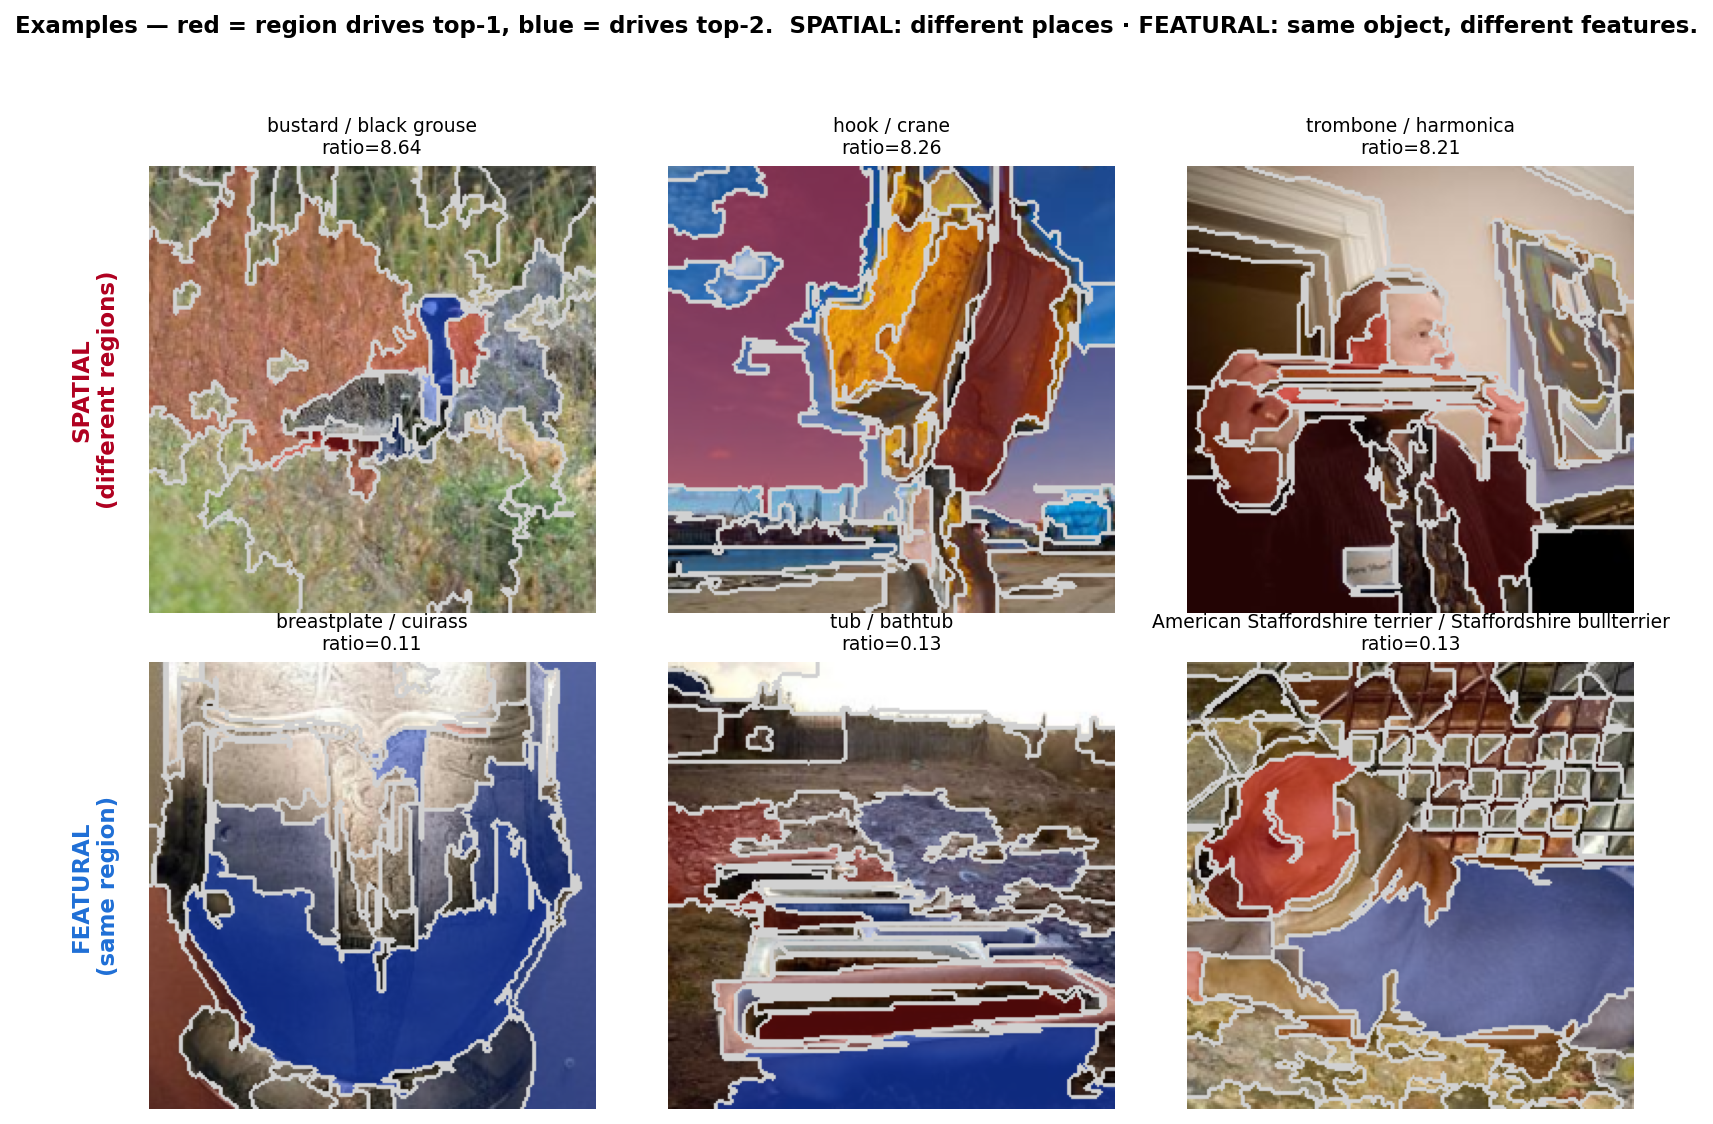
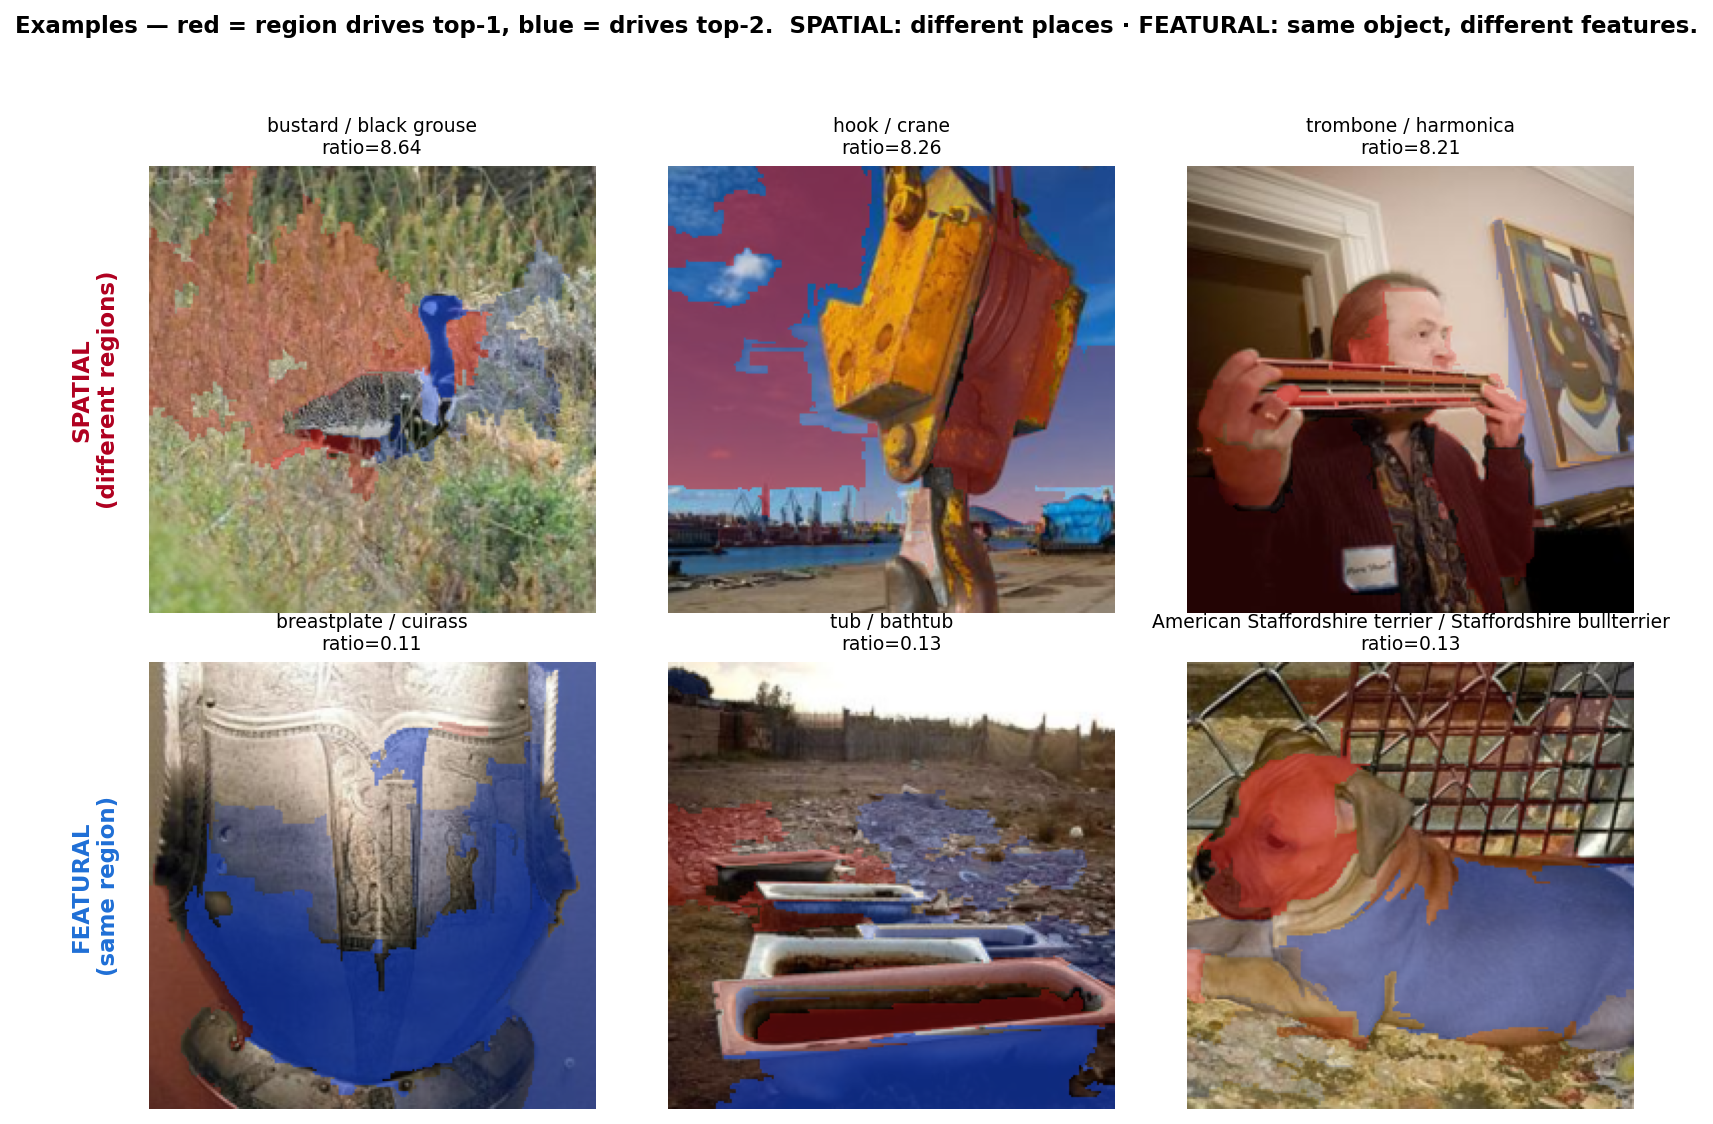
Remove segment borders from occlusion example overlays
Clean red/blue region highlights without superpixel edges.

diff --git a/infocube-main/occlusion_1k.py b/infocube-main/occlusion_1k.py
@@ -175,7 +175,7 @@ def overlay(i, y1, y2):
     im = (x.cpu()*_std+_mean).clamp(0,1).permute(1,2,0).numpy()
     sgn = (np.where(disc, np.sign(diff), 0)*np.abs(diff))[seg]; mag = np.abs(sgn)/(np.abs(sgn).max()+EPS)
     al=(0.55*mag)[...,None]; col=np.where((sgn>0)[...,None], np.array([0.85,0.1,0.1]), np.array([0.1,0.3,0.9]))
-    o = np.clip(im*(1-al)+col*al,0,1); o[boundaries(seg)] = [0.82,0.82,0.82]      # yellow superpixel edges
+    o = np.clip(im*(1-al)+col*al,0,1)                                             # no segment borders
     return o
 order = np.argsort(conf)                                                  # ascending: featural..spatial
 def _diverse(pool, k=3, skip=0):                                         # distinct top-1 class, varied
